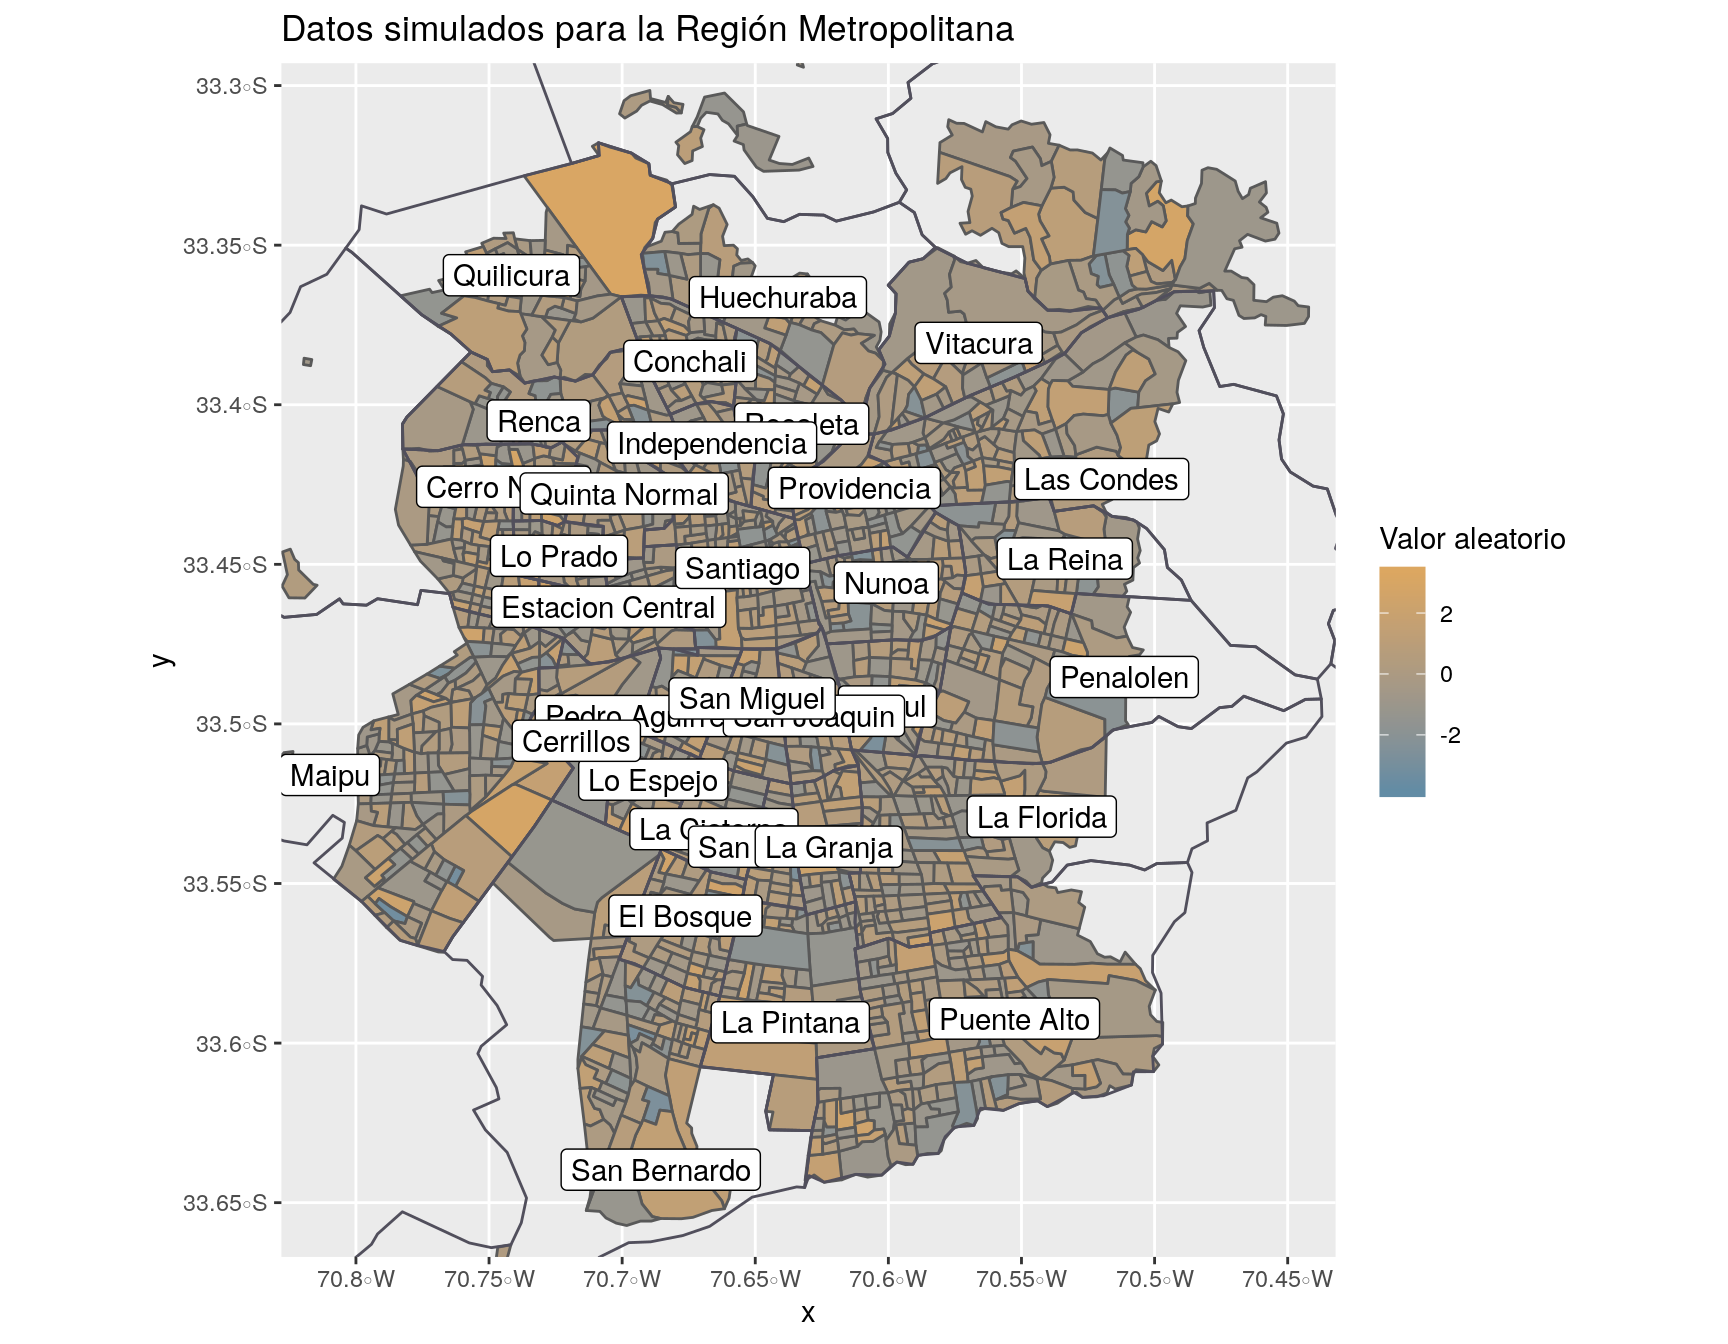
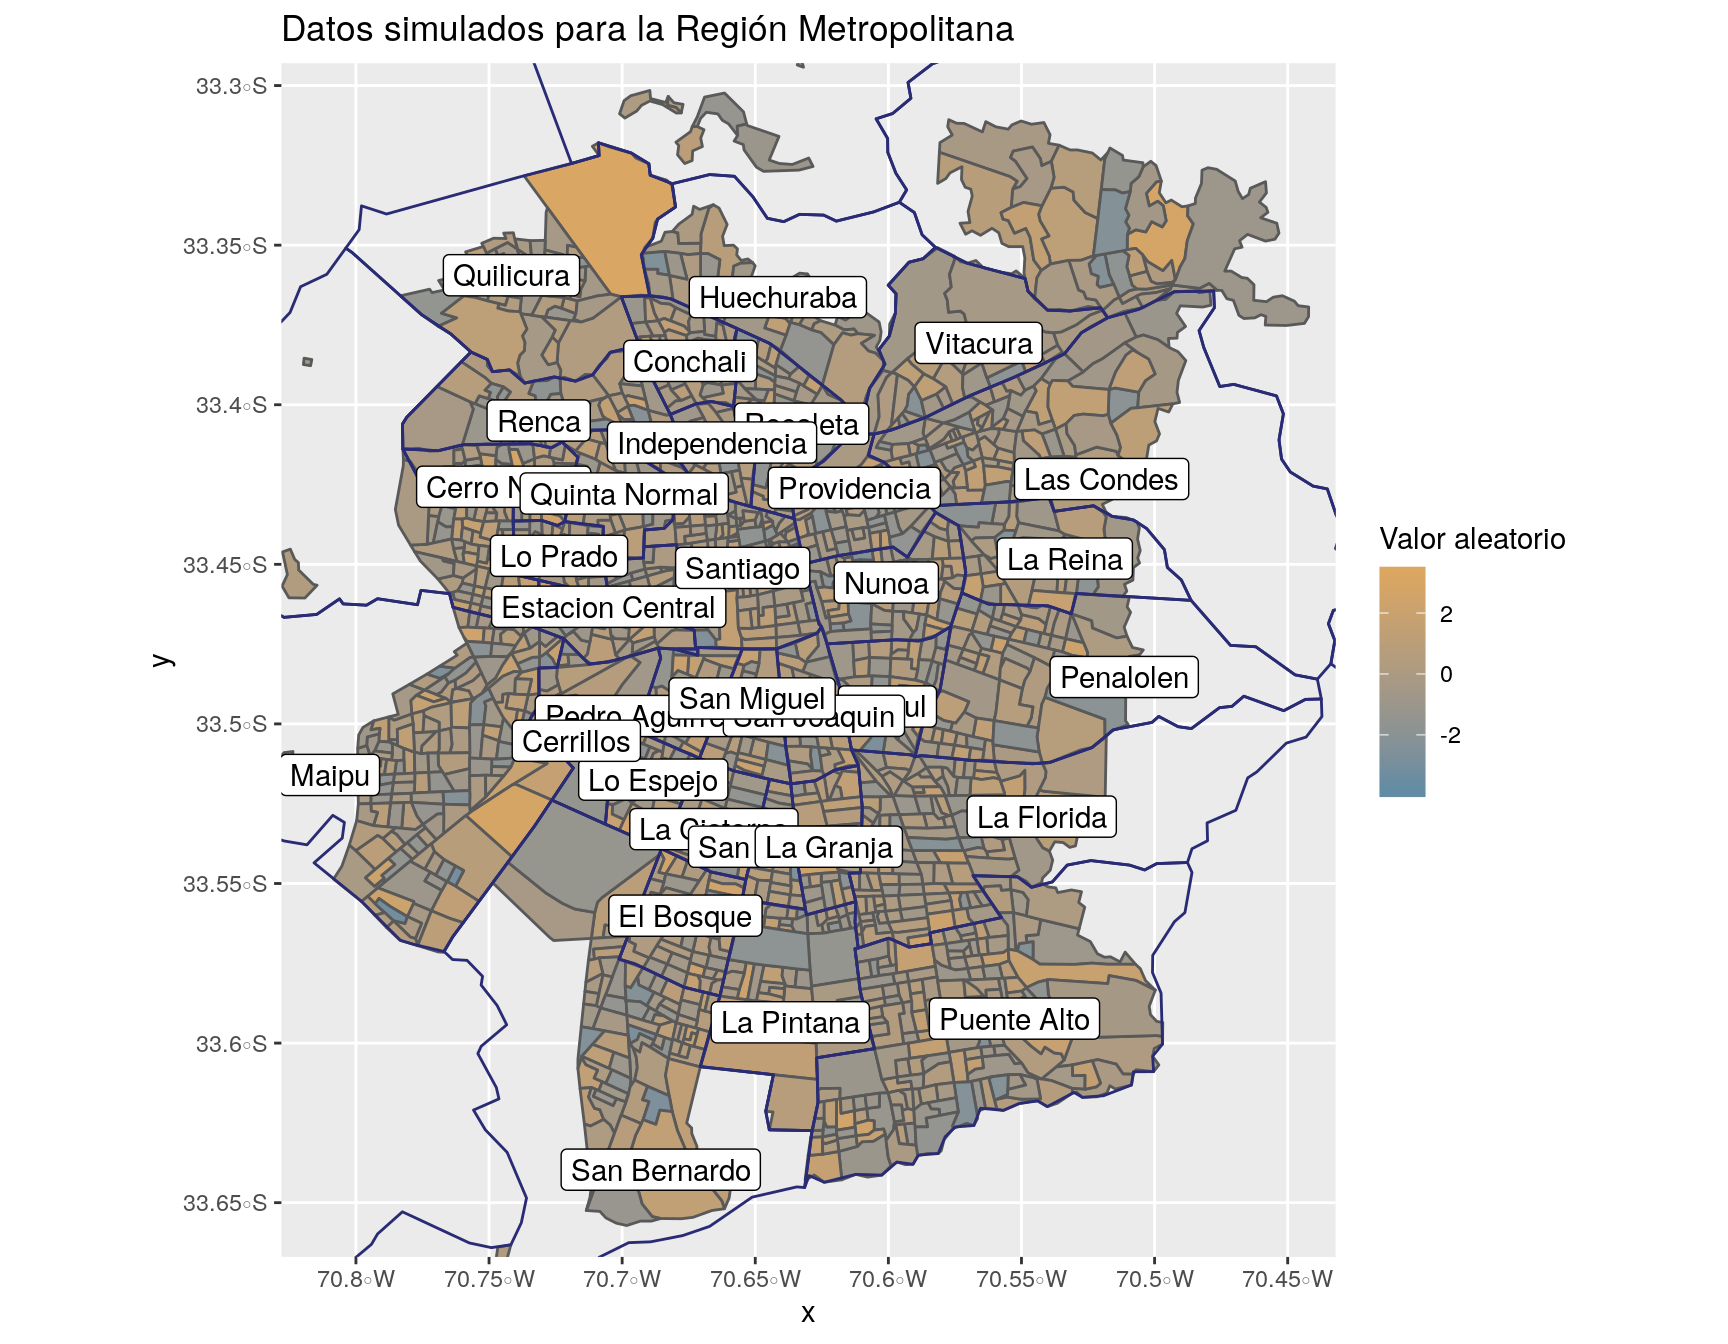
limites comunas rm

diff --git a/docs/articles/basic-usage.html b/docs/articles/basic-usage.html
@@ -211,7 +211,7 @@
 <a class="sourceLine" id="cb4-23" data-line-number="23"></a>
 <a class="sourceLine" id="cb4-24" data-line-number="24"><span class="kw"><a href="https://ggplot2.tidyverse.org/reference/ggplot.html">ggplot</a></span>() <span class="op">+</span><span class="st"> </span></a>
 <a class="sourceLine" id="cb4-25" data-line-number="25"><span class="st">  </span><span class="kw"><a href="https://ggplot2.tidyverse.org/reference/ggsf.html">geom_sf</a></span>(<span class="dt">data =</span> zonas_metropolitana, <span class="kw"><a href="https://ggplot2.tidyverse.org/reference/aes.html">aes</a></span>(<span class="dt">fill =</span> valor_aleatorio)) <span class="op">+</span></a>
-<a class="sourceLine" id="cb4-26" data-line-number="26"><span class="st">  </span><span class="kw"><a href="https://ggplot2.tidyverse.org/reference/ggsf.html">geom_sf</a></span>(<span class="dt">data =</span> comunas_santiago, <span class="dt">colour =</span> <span class="st">"#514f5c"</span>, <span class="dt">fill =</span> <span class="ot">NA</span>) <span class="op">+</span></a>
+<a class="sourceLine" id="cb4-26" data-line-number="26"><span class="st">  </span><span class="kw"><a href="https://ggplot2.tidyverse.org/reference/ggsf.html">geom_sf</a></span>(<span class="dt">data =</span> comunas_santiago, <span class="dt">colour =</span> <span class="st">"#2A2B75"</span>, <span class="dt">fill =</span> <span class="ot">NA</span>) <span class="op">+</span></a>
 <a class="sourceLine" id="cb4-27" data-line-number="27"><span class="st">  </span><span class="kw"><a href="https://ggplot2.tidyverse.org/reference/ggsf.html">geom_sf_label</a></span>(<span class="dt">data =</span> comunas_santiago, <span class="kw"><a href="https://ggplot2.tidyverse.org/reference/aes.html">aes</a></span>(<span class="dt">label =</span> nombre_comuna)) <span class="op">+</span></a>
 <a class="sourceLine" id="cb4-28" data-line-number="28"><span class="st">  </span><span class="kw"><a href="https://ggplot2.tidyverse.org/reference/scale_gradient.html">scale_fill_gradientn</a></span>(<span class="dt">colours =</span> paleta, <span class="dt">name =</span> <span class="st">"Valor aleatorio"</span>) <span class="op">+</span></a>
 <a class="sourceLine" id="cb4-29" data-line-number="29"><span class="st">  </span><span class="kw"><a href="https://ggplot2.tidyverse.org/reference/lims.html">ylim</a></span>(<span class="op">-</span><span class="fl">33.65</span>, <span class="fl">-33.31</span>) <span class="op">+</span></a>
